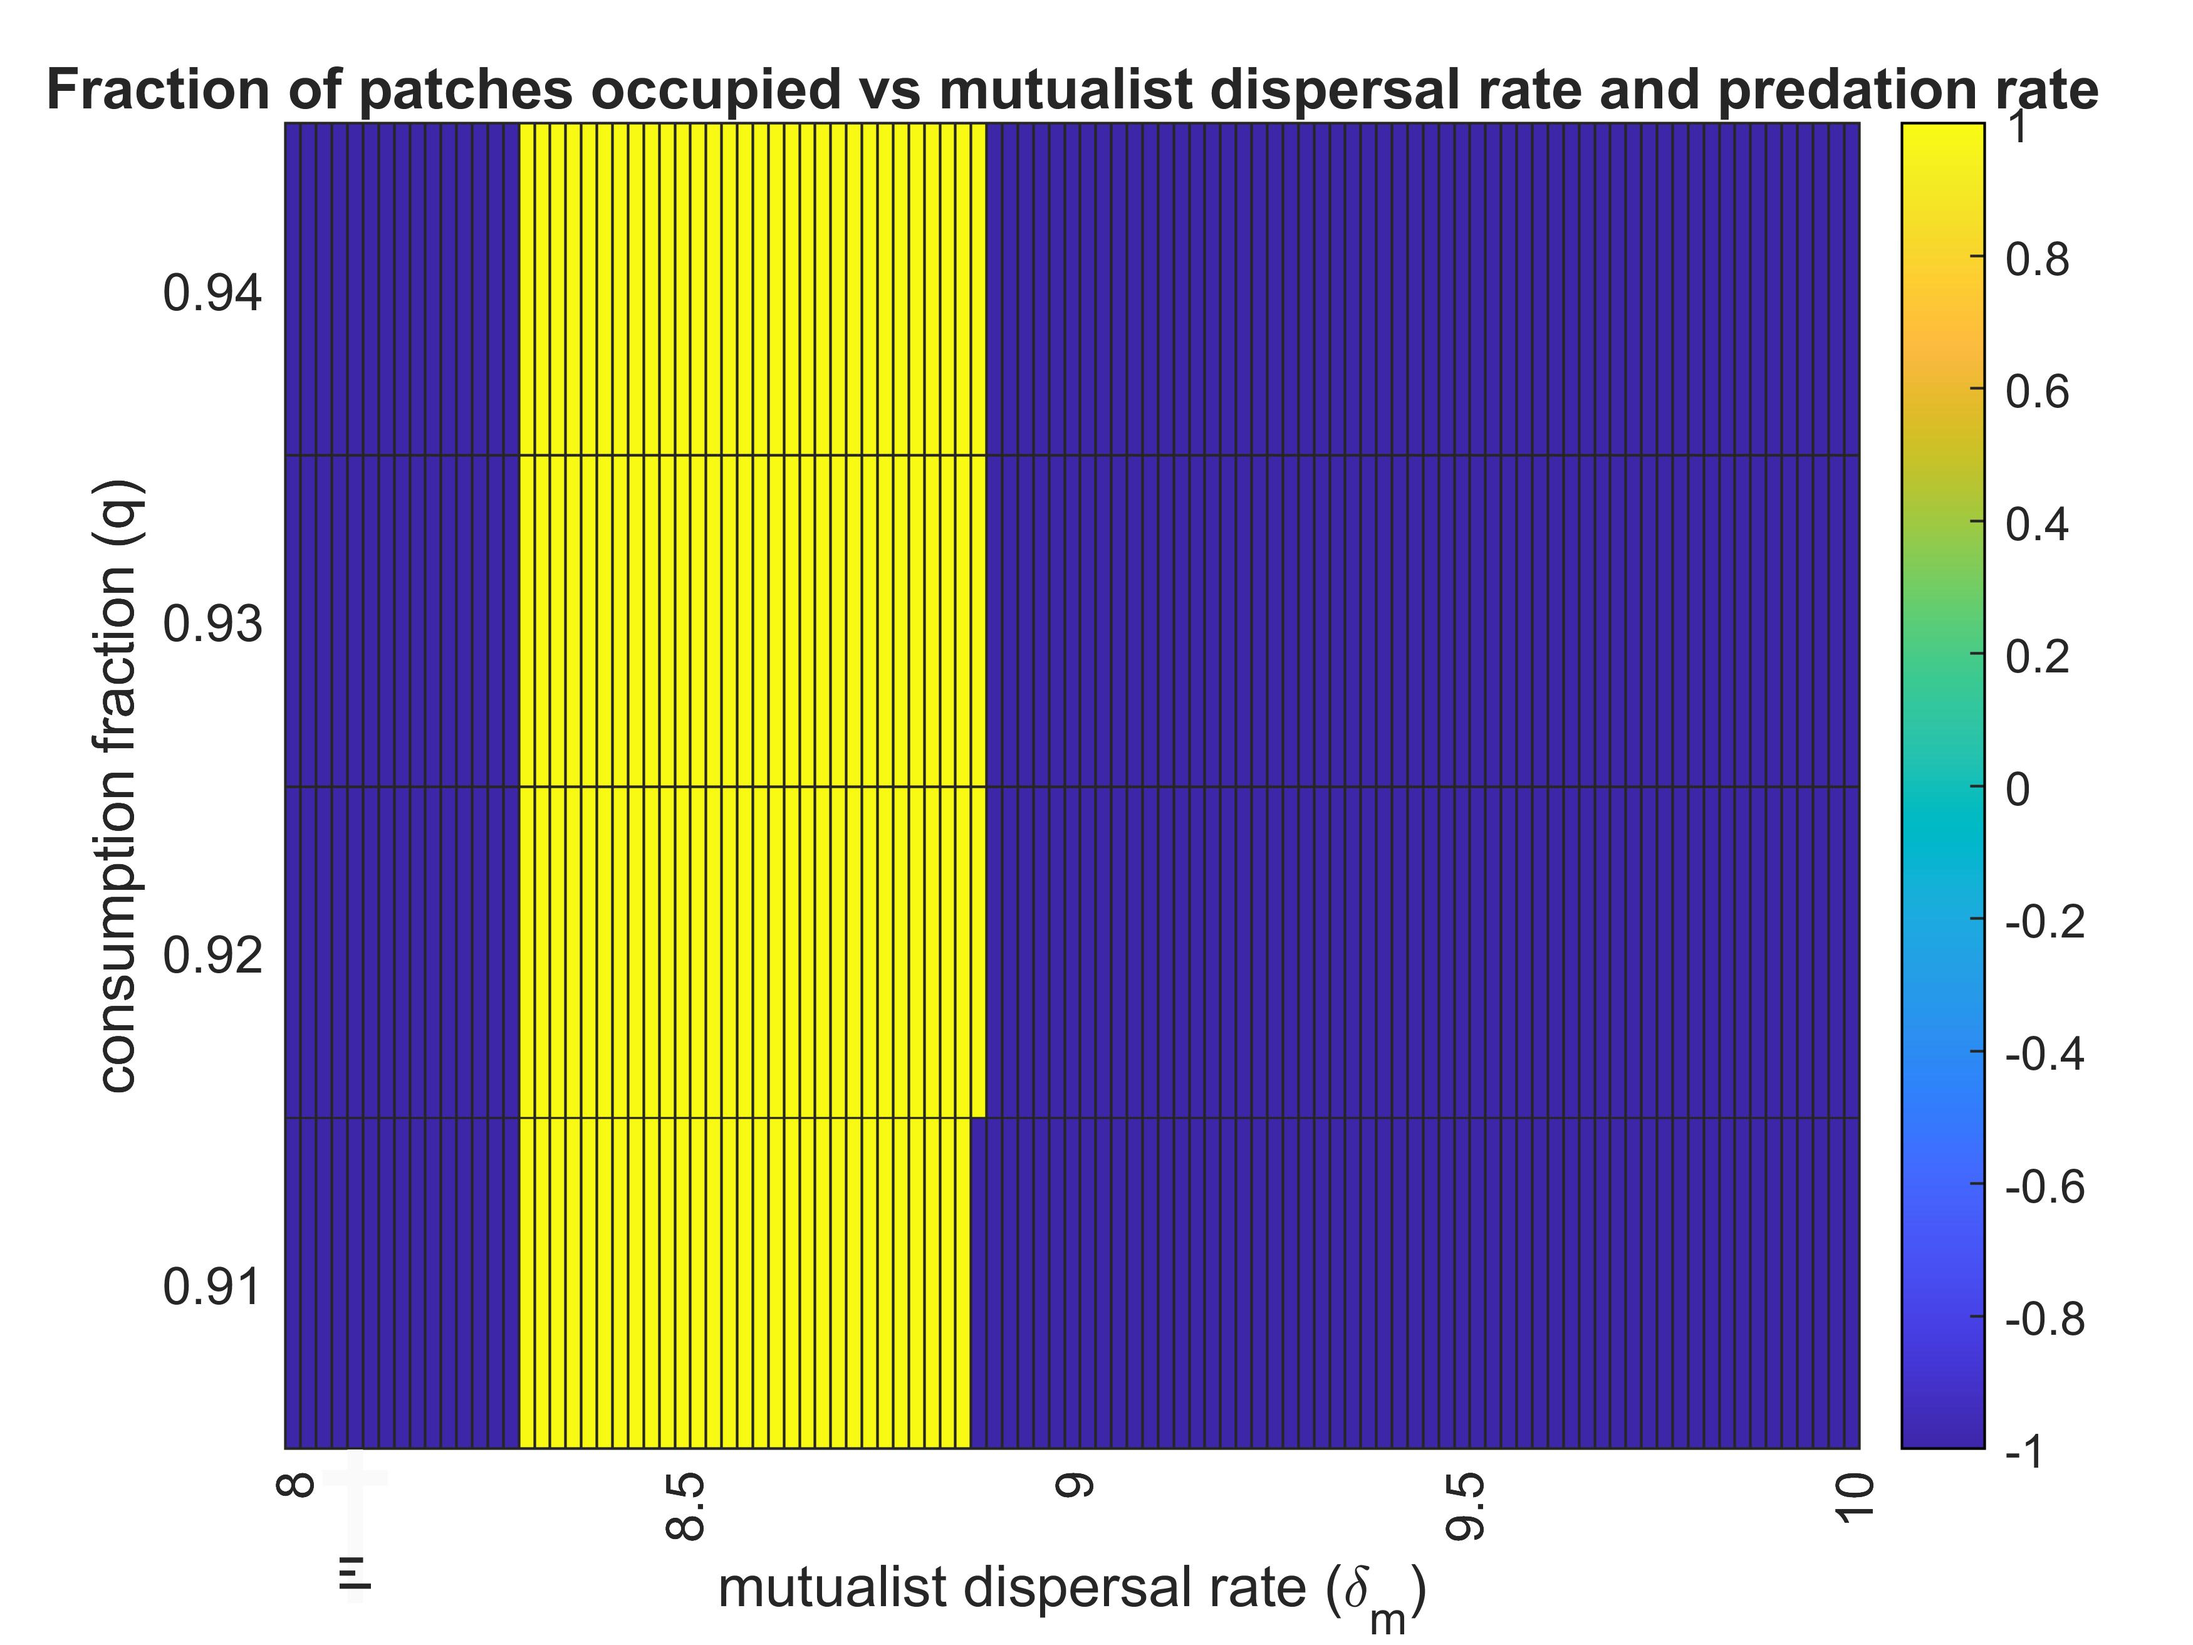
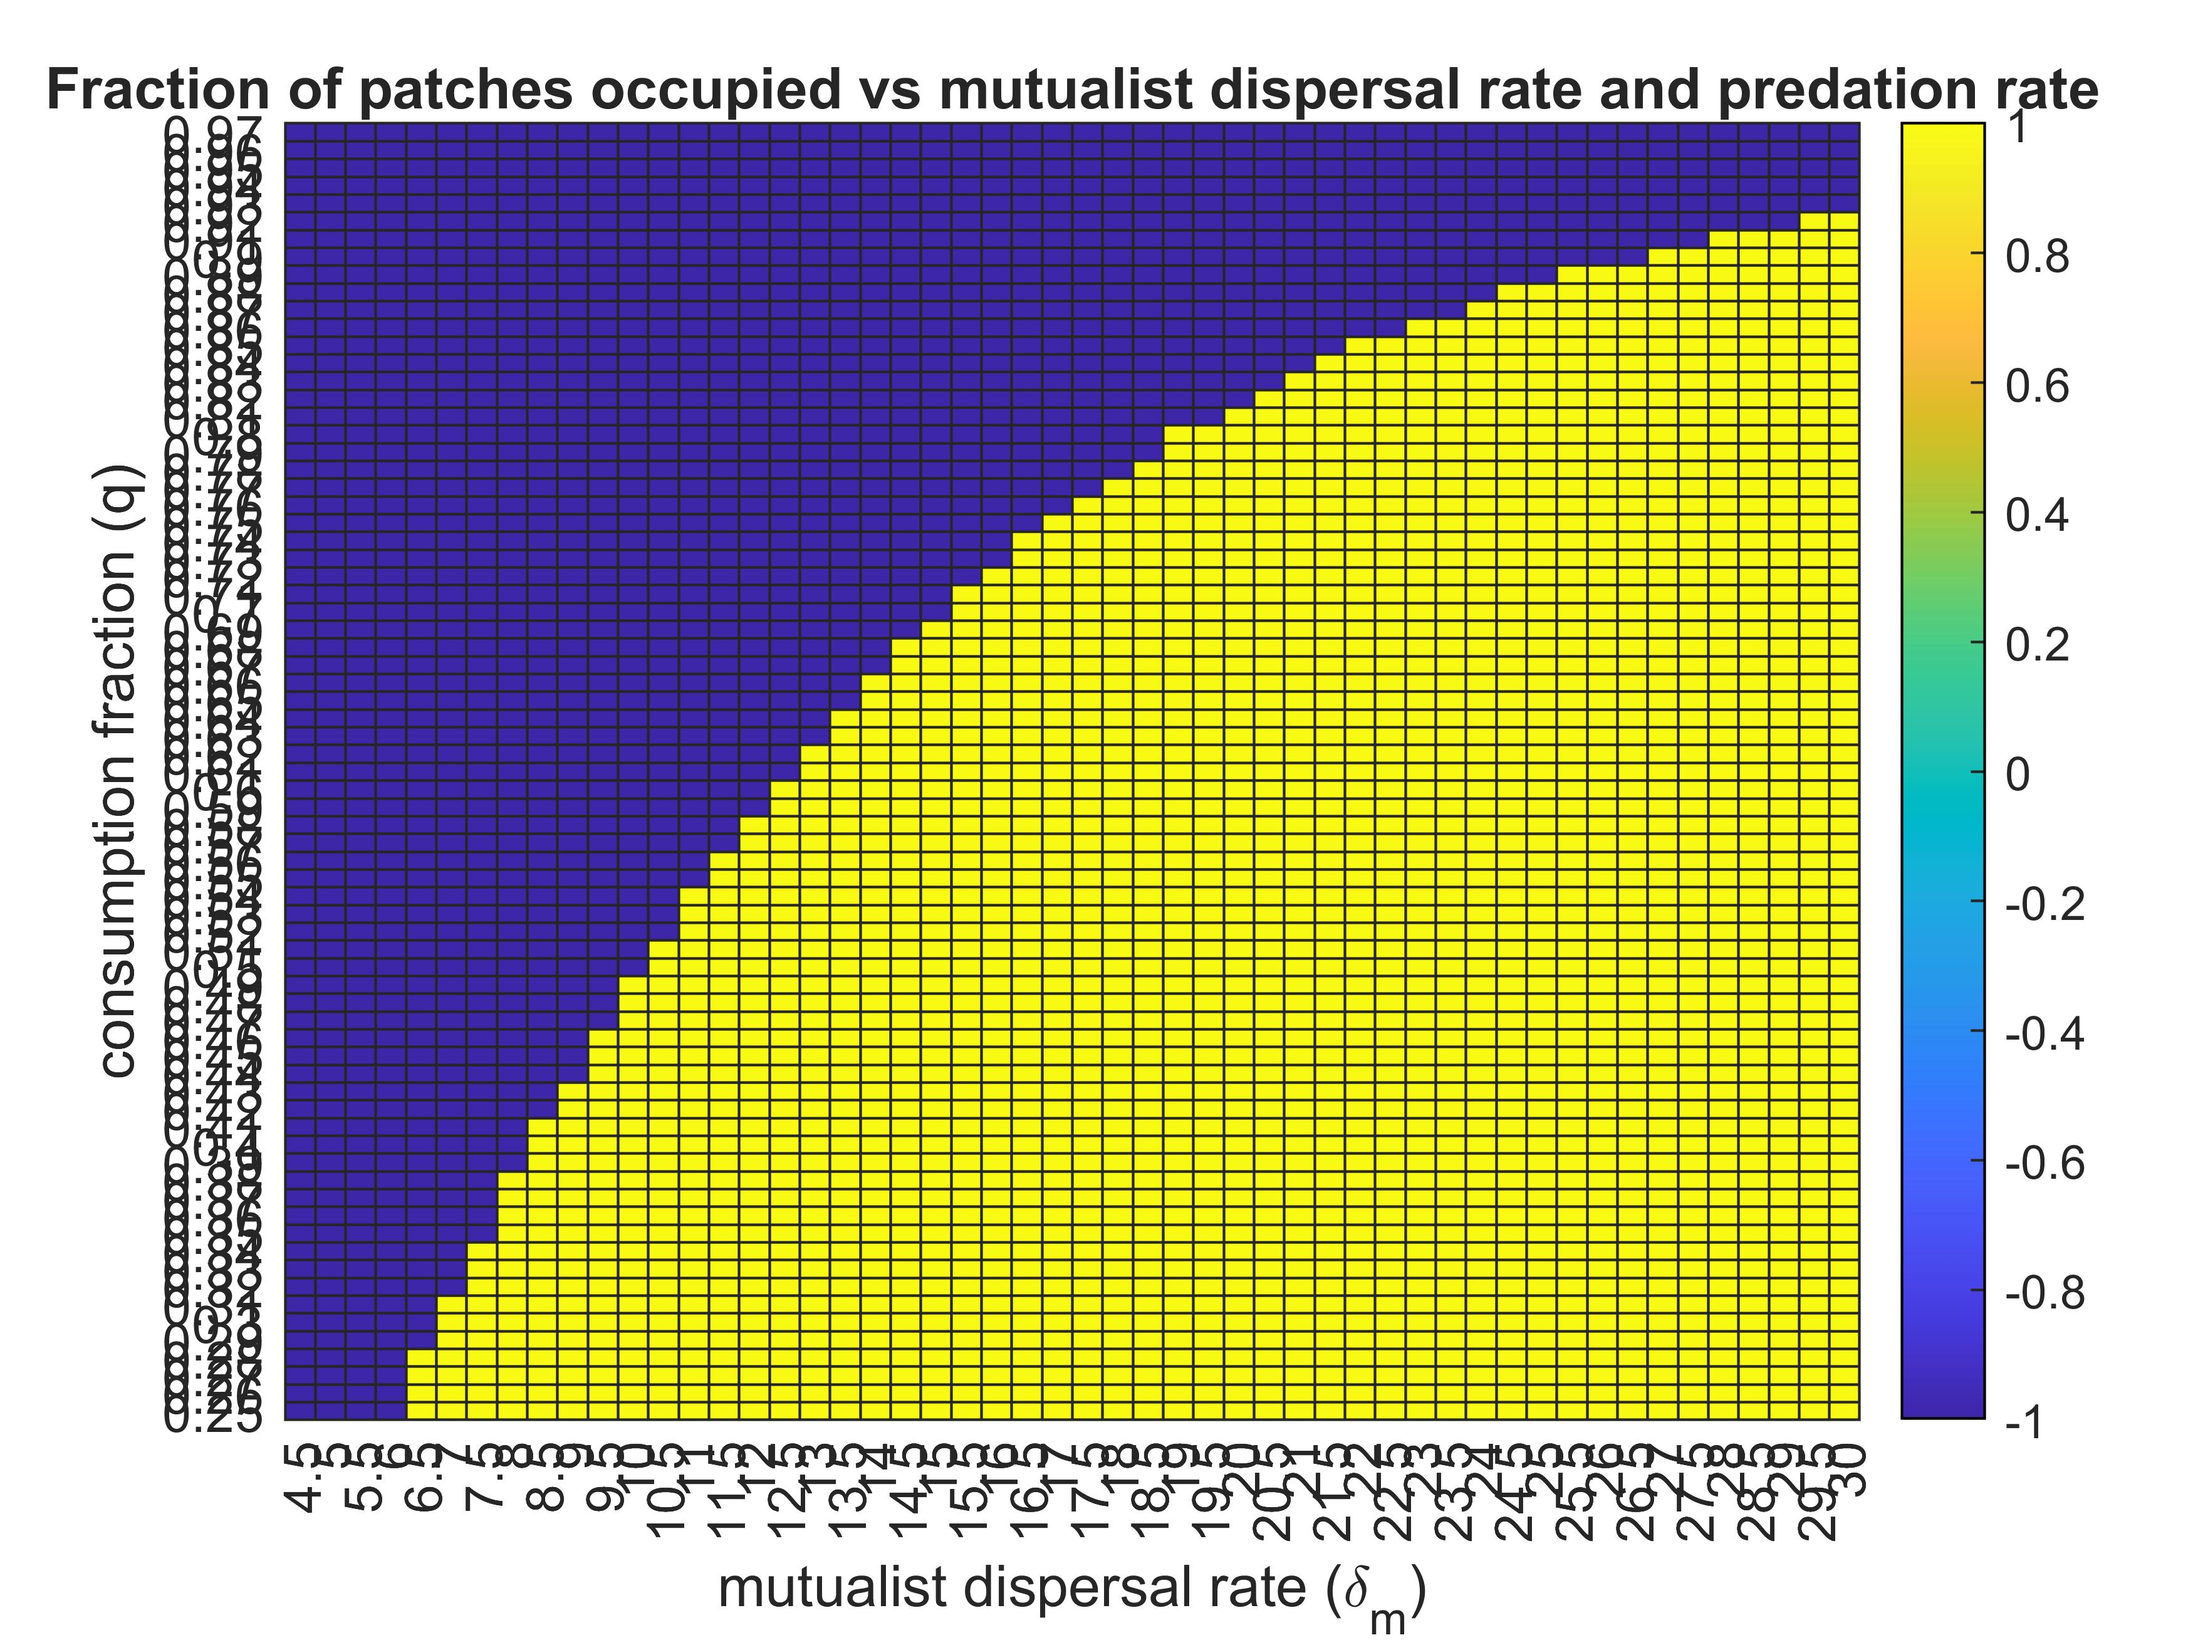
addition of new checks for spatial fitness and isocline analysis stuff

diff --git a/spat_fit_q_del_m_equmcalc.m b/spat_fit_q_del_m_equmcalc.m
@@ -1,4 +1,4 @@
-clear all
+clearvars
 
 %% parameter definition
 r_x = 5; r_y = 5;
@@ -11,9 +11,9 @@ del_x = 0.01; del_y = 0.05;
 %q = 0.45;
 d_m = 0.3; 
 a = 2.0; %capture rate of plant by frugivore
-del_m = 5:0.4:50; %I'm only not starting from zero because the computational costs are absurd
+del_m = 4.5:0.5:30; %I'm only not starting from zero because the computational costs are absurd
 %a = 0.51:0.01:0.81;%0.7-1.1 seems to work for this fig.
-q = 0.26:0.005:1.00; %feasibility domain for low a -- 0.855:0.005:1.00; feasibility domain for high a
+q = 0.25:0.01:0.97;
 [Del,Q] = meshgrid(del_m,q);
 
 Del_col = Del(:); Q_col = Q(:);
@@ -22,13 +22,13 @@ num_combinations = numel(Q_col);
 
 k_eff = 1; %efficiency of dispersing seeds to habitable patches
 
-z_x = 0.7; z_y = 0.7; z_m = 0.4; %scaling factors for patch extinction rates. changing z_m relative to z_x and z_m does not change qual. change results
+z_x = 0.7; z_y = 0.7; z_m = 0.4; %scaling factors for patch extinction rates. changing z_m relative to z_x and z_y does not change qual. change results
 
-e_xmin = 0.05;e_ymin = 0.05; e_mmin = 0.05; e_mxmin = e_xmin;
+e_xmin = 0.05;e_ymin = 0.05; e_mmin = 0.02; e_mxmin = e_xmin;
 
 tspan = [0,1000];
 
-k_x = 0.08; k_y = 0.08; k_m = 0.08;
+k_x = 0.08; k_y = 0.08; k_m = 0.10;
 
 x_init = 0.1; y_init = 0.1; m_init = 0.1;
     
@@ -55,6 +55,7 @@ if all(K_y > yes_m_low_lim) && all(K_y < yes_m_upp_lim)
     disp('stable local coexistence w/ mutualist')
 else
     error('no stable local coexistence w/ mutualist')
+    %yes_m_low_lim = reshape(yes_m_low_lim,size(Del,1),size(Del,2) )
 end
 
 %% Local dynamics - equilibrium expressions assuming no competitive exclusion occurs
@@ -69,25 +70,32 @@ x_star = (Del_col' + d_m)./(a*Q_col');
 y_star = K_y.*(1 - (del_y/r_y)) - alpha_yx.*x_star;
 m_star = (1/a).*((r_x/K_x).*(K_x-x_star-(alpha_xy.*y_star))-del_x);
 
-if (any(x_star > K_x) | any(x_star < 0) | any(imag(x_star)~=0))
+if (any(x_star > K_x) | any(x_star < 0) | any(imag(x_star)~=0)) %#ok<*OR2>
     % If condition is true, throw an error and stop execution
     error('x popln is out of bounds');
+    %x_star(x_star > K_x) = 0; x_star(x_star < 0) = 0; x_star(imag(x_star)~=0) = 0;
+    %x_tilde = zeros(size(Del,1),size(Del,2)); y_tilde =0; x_star = 0; y_star = 0; m_star = 0;
 end
 
 if (any(y_star > K_y) | any(y_star < 0) | any(imag(y_star)~=0))
     error('y popln is out of bounds');
+    %y_star(y_star > K_y) = 0; ystar(y_star < 0) = 0; ystar(imag(y_star)~=0) = 0;
 end
 
 if (any(m_star > K_x) | any(m_star < 0) | any(imag(m_star)~=0))
     error('m popln is out of bounds');
+    %m_star(m_star > K_x) = 0; m_star(m_star < 0) = 0; m_star(imag(m_star)~=0) = 0;
 end
 
 %% Linking local and global dynamics
 
 %Extinction equations
+
 e_x = e_xmin.*((K_x./x_tilde).^z_x);e_y = e_ymin.*(K_y./(y_star)).^z_y;
 e_mx = e_xmin.*(K_x./(x_star)).^z_x;
 e_m = e_mmin.*(K_x./(m_star)).^z_m; %assume max population size of mutualist is similar to that of x and y
+
+%e_x(e_x == NaN) = 1000; e_y(e_y == NaN) = 1000; e_mx(e_mx == NaN) = 1000; e_m(e_m == NaN) = 1000;
 
 if (any(e_m < 0) | any(imag(e_m)~=0))
     % If condition is true, throw an error and stop execution
@@ -95,7 +103,7 @@ if (any(e_m < 0) | any(imag(e_m)~=0))
 end
 
 
-mu = e_mx - e_x;
+mu = e_mx - e_x; %mutualist induced extinction rate of x
 
 %Colonisation equations
 c_x = (k_x*del_x).*x_tilde;
@@ -103,18 +111,23 @@ c_y = k_y*del_y.*y_star;
 c_m = k_m*Del_col'.*m_star; %repelem(del_m,numel(q)) can also be used in place of Del_col' if u feel funky
 c_mx =(k_x*del_x+k_m*k_eff*a.*(1-Q_col').*Del_col'.*m_star).*x_star;
 
-lambda = c_mx-c_x;
+lambda = c_mx-c_x; %mutualism aided colonisation rate of x
 
 %% Global dynamics - equilibrium expressions
+
 
 gamma = (0.5.*((lambda.*(1+(e_m./c_m))+c_x)-(e_x+mu)))./(c_x+lambda);%0.5*(1-((mu-e_x-e_m)/(c_x+c_m)));
 
 eta2 = (e_m./c_m).*((mu-lambda)./(c_x+lambda));
+eta_all = sqrt(gamma.^2+eta2); eta_all_new = eta_all;
 
-px_star_pos = gamma + sqrt(gamma.^2+eta2);
-px_star_neg = gamma - sqrt(gamma.^2+eta2);
+eta_all_new(imag(eta_all_new) ~= 0) = 0;
+
+px_star_pos = gamma + eta_all_new;
+px_star_pos(isnan(px_star_pos)) = 0;
+px_star_neg = gamma - eta_all_new;
 py_star = 1 - (e_y./c_y);
-pm_star = px_star_pos - (e_m./c_m);
+pm_star = max(px_star_pos - (e_m./c_m),0);
  %Note: 'any' and 'all' commands work on something that is already in logical
  %form i.e. arrays if zeros and ones which are logical
  
@@ -164,6 +177,6 @@ ylabel ('consumption fraction (q)')
 title('Fraction of patches occupied vs mutualist dispersal rate and predation rate')
 %legend('Species with mutualist (x)')%, 'Species without mutualist (y)',
 %'mutualist (m)', 'location', 'best' )
-print('spat_fit_q_del_m_equmcalc_high_a','-djpeg','-r600')
+print('spat_fit_q_del_m_equmcalc','-djpeg','-r600')
    
     

diff --git a/isocline_analysis.m b/isocline_analysis.m
@@ -1,0 +1,49 @@
+%%%%%%%%%%%% Isocline analysis of the local patch dynamics model for
+%%%%%%%%%%%% generalist or specialist frugivore
+clearvars
+%% Define the parameters
+syms x y m r_x r_y alpha_xy alpha_yx K_x K_y del_x del_y d_m a del_m q f
+
+%% Isocline equations
+% Define the differential equations
+dx = r_x.*x*((K_x-x-alpha_xy.*y)./K_x)-del_x.*x-a.*m*f.*x;
+dy = r_y.*y.*((K_y-y-alpha_yx.*x)./K_y)- del_y.*y - a.*m.*(1-f).*y;
+dm = a*q.*(f.*x+(1-f).*y) - del_m.*m-d_m.*m;
+
+% Solve for the isocline equations
+isocline_x = simplify(solve(dx==0, x));
+isocline_y = simplify(solve(dy==0, y));
+isocline_m = simplify(solve(dm==0, m));
+
+
+%%
+r_x = 5; r_y = 5;
+
+alpha_xy = 0.73; alpha_yx = 0.60; %really only affects y's local density and dispersal
+
+K_x = 200; K_y = 200; %no point touching this
+
+del_x = 0.01; del_y = 0.05;
+d_m = 0.3; 
+a = 2.0; %capture rate of plant by frugivore
+del_m = 10; %I'm only not starting from zero because the computational costs are absurd
+q = 0.3;
+f = 0.6;
+
+
+%dxnewreg = matlabFunction(dx); dynewreg = matlabFunction(dy); dmnewreg = matlabFunction(dm);
+
+%% Define the grid
+[x, y, m] = meshgrid(0:20:K_x,0:20:K_y,0:2:K_x/10);
+dxnew = double(simplify(subs(dx)));dynew = double(simplify(subs(dy)));dmnew = simplify(subs(dm));
+
+%% Create isoclines
+figure;
+quiver3(x, y, m, dxnew, dynew, dmnew);
+axis equal
+%contour(x, y,dmnew, 'r');
+xlabel('x');
+ylabel('y');
+title('Isoclines for Coupled Differential Equations');
+legend('Direction Field', 'Location', 'NorthWest');
+hold off;
